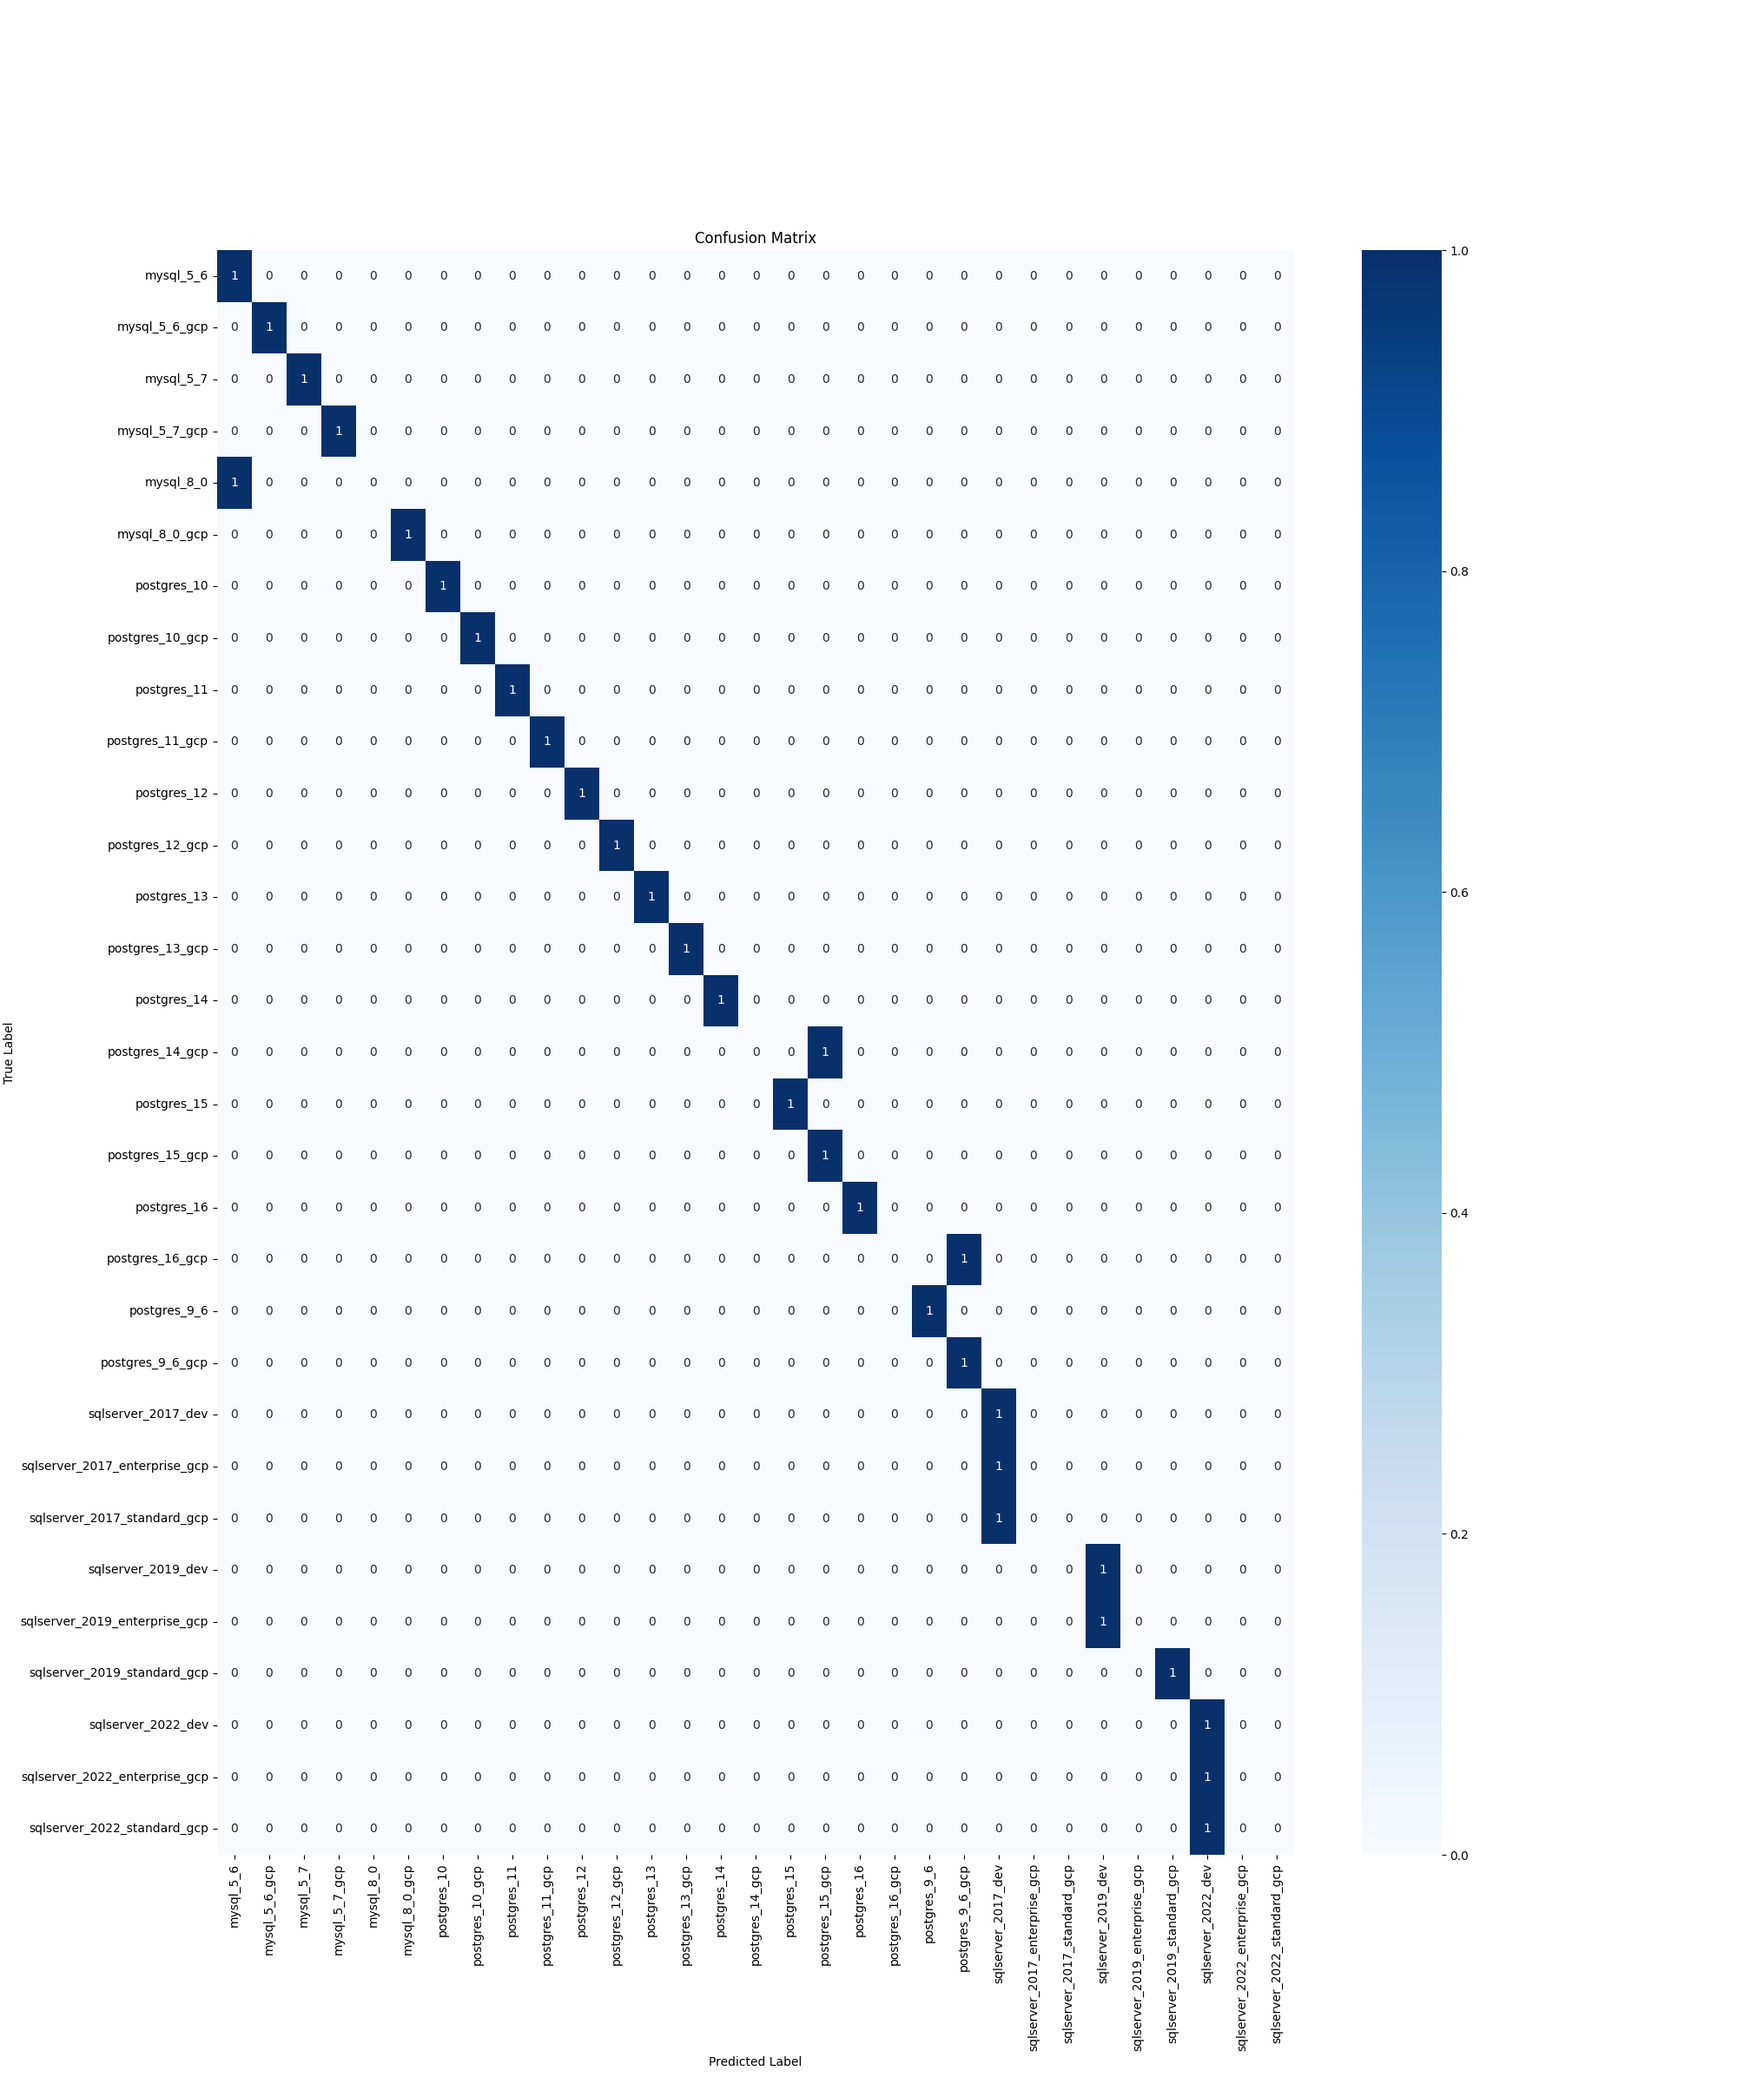
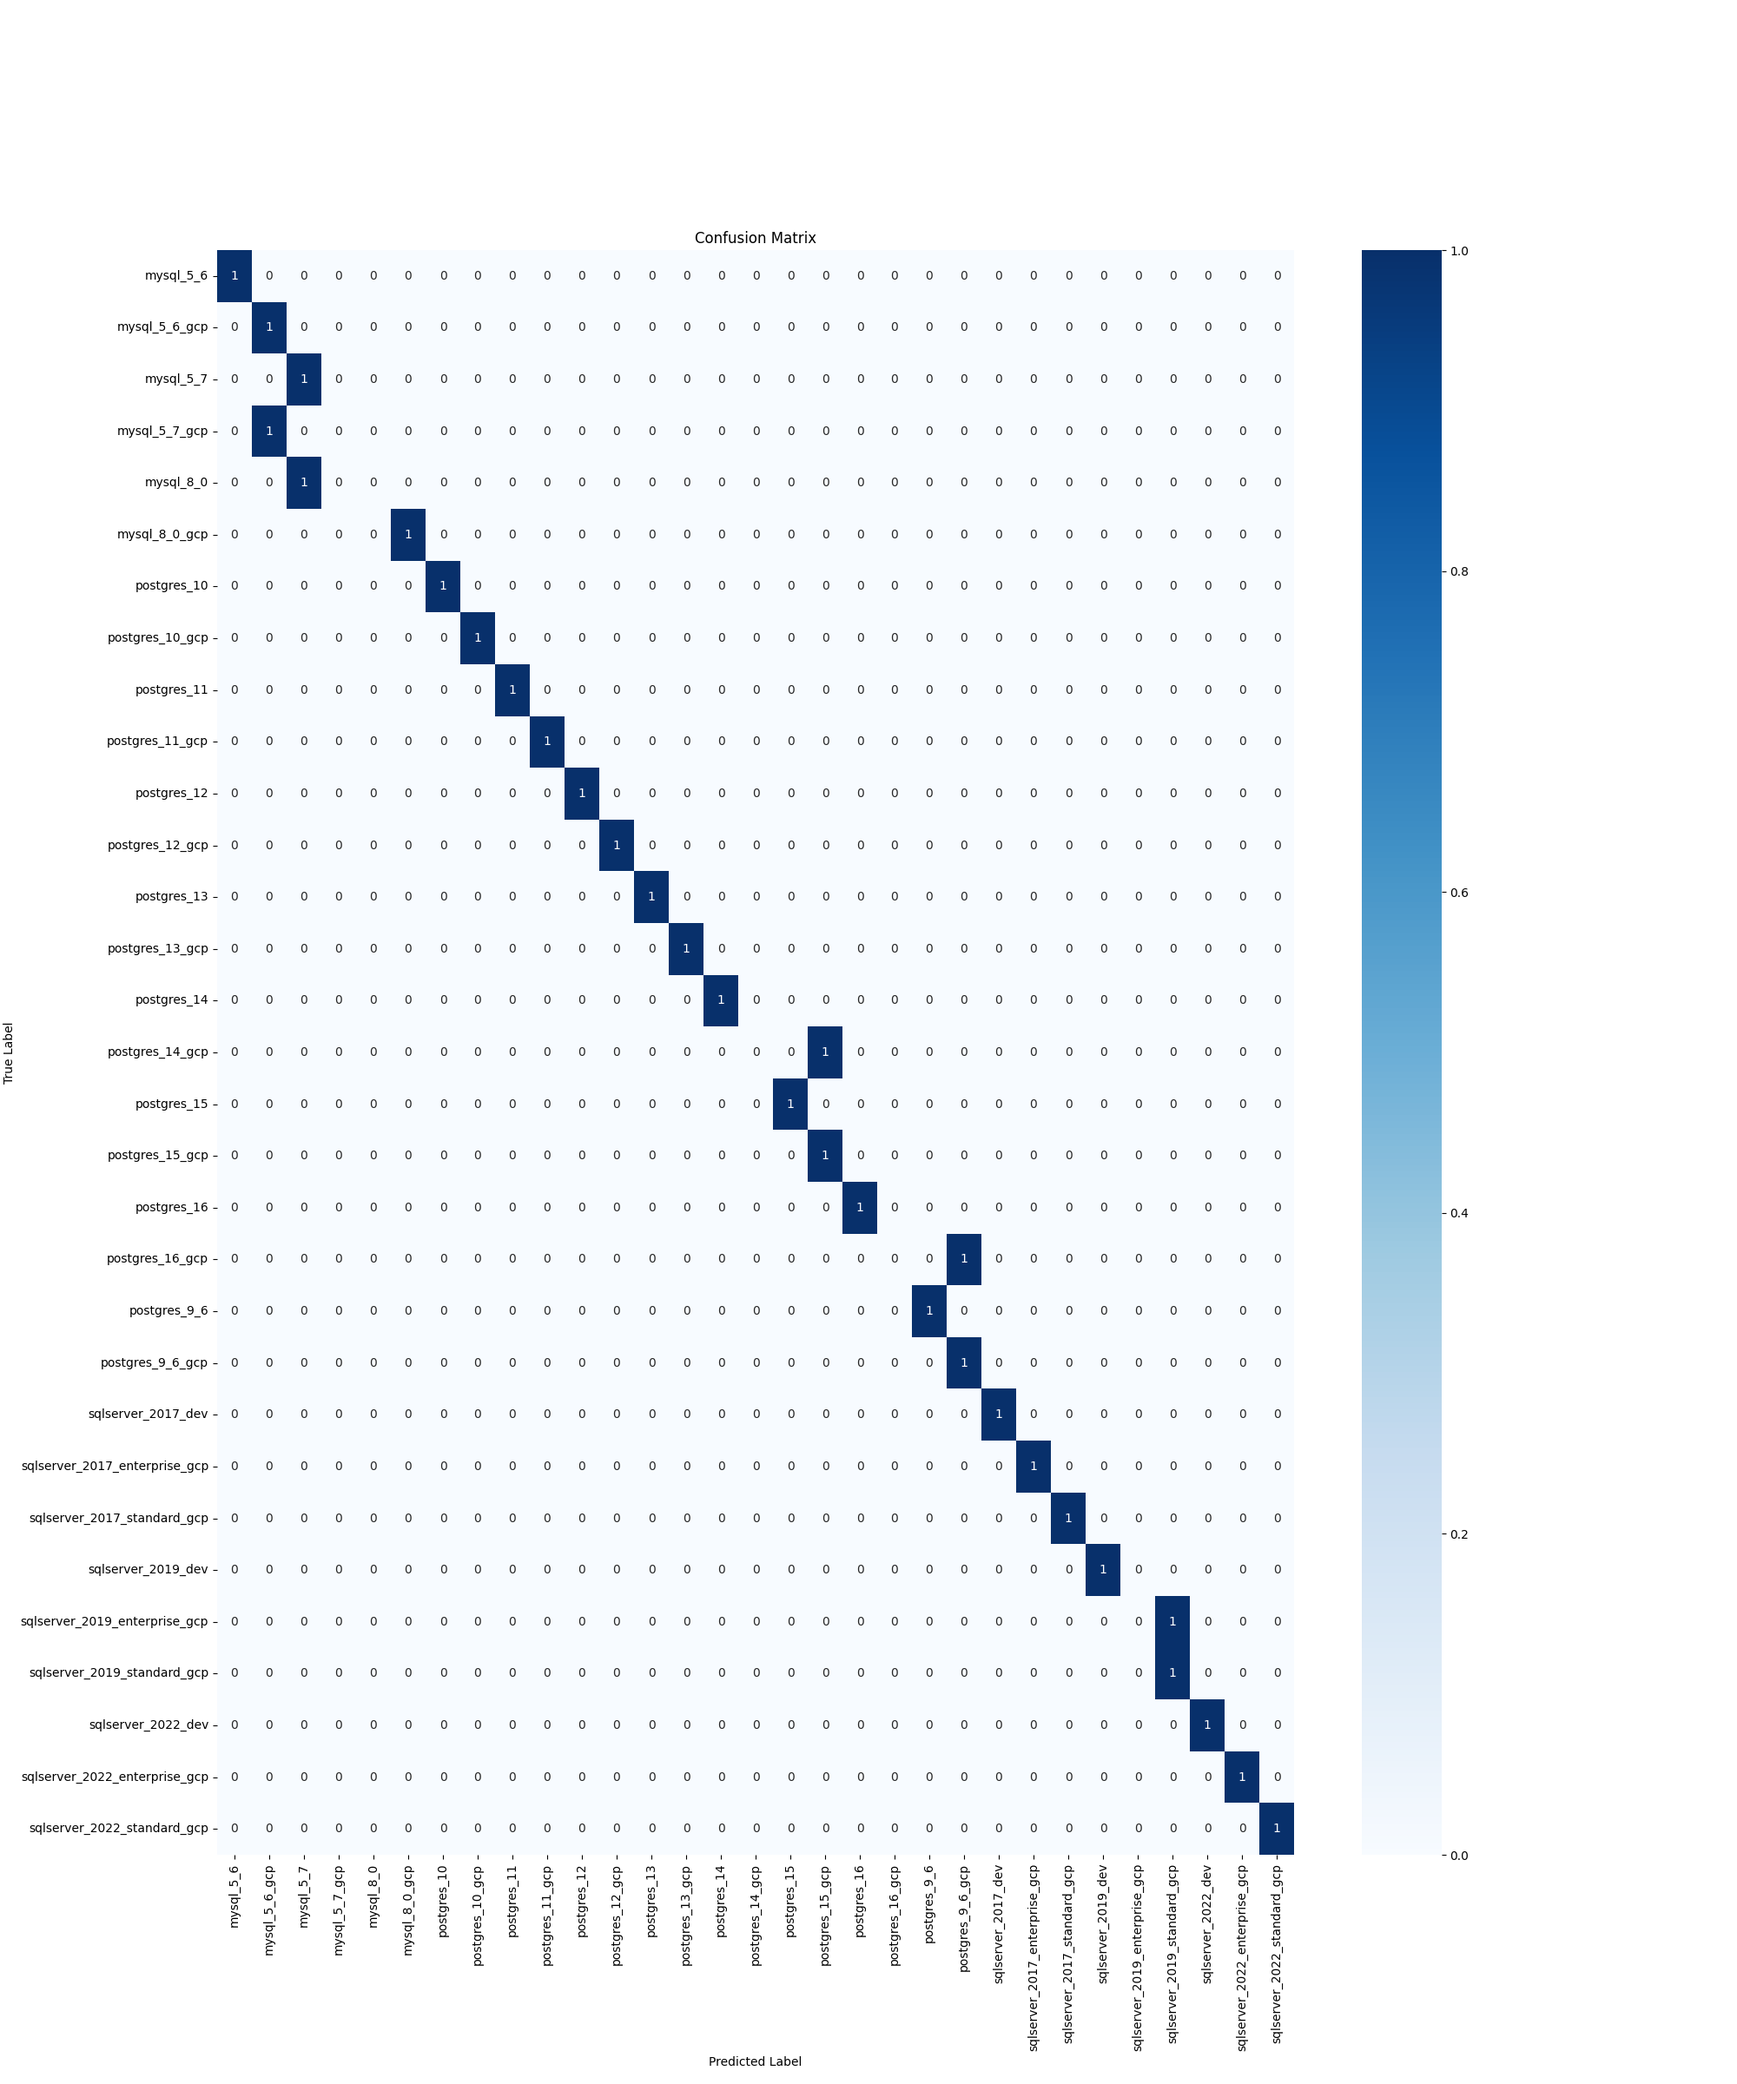
classify bounded by MAX_FEATURES

Changed region(s): [[0.558, 0.6875, 0.682, 0.8125], [0.124, 0.1875, 0.217, 0.25], [0.682, 0.8438, 0.744, 0.9062]]

diff --git a/packets/classifier.py b/packets/classifier.py
@@ -40,21 +40,23 @@ def load_byte_data(directory):
     return data, labels
 
 
+MAX_FEATURES = 1000
+
 if __name__ == "__main__":
     print("Hello!")
 
-    train_dir = "/Users/raresraf/code/project-martial/dataset/packets/train"
+    train_dir = "/Users/raresfolea/code/project-martial/dataset/packets/train"
     train_data, train_labels = load_byte_data(train_dir)
 
-    test_dir = "/Users/raresraf/code/project-martial/dataset/packets/test"
+    test_dir = "/Users/raresfolea/code/project-martial/dataset/packets/test"
     test_data, test_labels = load_byte_data(test_dir)
 
     def byte_ngram_tokenizer(byte_sequence):
-        ngrams = [byte_sequence[i:i + 2] for i in range(len(byte_sequence) - 2)]
+        ngrams = [byte_sequence[i:i + 3] for i in range(len(byte_sequence) - 3)]
         return ngrams
 
     # TF-IDF Vectorization
-    vectorizer = TfidfVectorizer(tokenizer=byte_ngram_tokenizer, encoding='cp437')
+    vectorizer = TfidfVectorizer(tokenizer=byte_ngram_tokenizer, encoding='cp437', max_features=MAX_FEATURES)
     X_train = vectorizer.fit_transform(train_data)
     X_test = vectorizer.transform(test_data)
 
@@ -76,8 +78,8 @@ if __name__ == "__main__":
     plt.xlabel('Predicted Label')
     plt.ylabel('True Label')
     plt.title('Confusion Matrix')
-    plt.savefig('myfig.png')
-    plt.show()
+    plt.savefig('confusion.png')
+    # plt.show()
 
 
 
@@ -144,7 +146,8 @@ if __name__ == "__main__":
         combined_legend_elements = legend_elements + plt.gca().get_legend_handles_labels()[0]
         plt.legend(handles=combined_legend_elements, title="Classes / Errors")
         plt.grid(True, linestyle='--', alpha=0.5)
-        plt.show()
+        plt.savefig('pca.png')
+        # plt.show()
     else:
         print("No misclassifications found on the test set!")
 
@@ -152,10 +155,10 @@ if __name__ == "__main__":
 Classification Report:
                                 precision    recall  f1-score   support
 
-                    mysql_5_6       0.50      1.00      0.67         1
-                mysql_5_6_gcp       1.00      1.00      1.00         1
-                    mysql_5_7       1.00      1.00      1.00         1
-                mysql_5_7_gcp       1.00      1.00      1.00         1
+                    mysql_5_6       1.00      1.00      1.00         1
+                mysql_5_6_gcp       0.50      1.00      0.67         1
+                    mysql_5_7       0.50      1.00      0.67         1
+                mysql_5_7_gcp       0.00      0.00      0.00         1
                     mysql_8_0       0.00      0.00      0.00         1
                 mysql_8_0_gcp       1.00      1.00      1.00         1
                   postgres_10       1.00      1.00      1.00         1
@@ -174,17 +177,17 @@ Classification Report:
               postgres_16_gcp       0.00      0.00      0.00         1
                  postgres_9_6       1.00      1.00      1.00         1
              postgres_9_6_gcp       0.50      1.00      0.67         1
-           sqlserver_2017_dev       0.33      1.00      0.50         1
-sqlserver_2017_enterprise_gcp       0.00      0.00      0.00         1
-  sqlserver_2017_standard_gcp       0.00      0.00      0.00         1
-           sqlserver_2019_dev       0.50      1.00      0.67         1
+           sqlserver_2017_dev       1.00      1.00      1.00         1
+sqlserver_2017_enterprise_gcp       1.00      1.00      1.00         1
+  sqlserver_2017_standard_gcp       1.00      1.00      1.00         1
+           sqlserver_2019_dev       1.00      1.00      1.00         1
 sqlserver_2019_enterprise_gcp       0.00      0.00      0.00         1
-  sqlserver_2019_standard_gcp       1.00      1.00      1.00         1
-           sqlserver_2022_dev       0.33      1.00      0.50         1
-sqlserver_2022_enterprise_gcp       0.00      0.00      0.00         1
-  sqlserver_2022_standard_gcp       0.00      0.00      0.00         1
+  sqlserver_2019_standard_gcp       0.50      1.00      0.67         1
+           sqlserver_2022_dev       1.00      1.00      1.00         1
+sqlserver_2022_enterprise_gcp       1.00      1.00      1.00         1
+  sqlserver_2022_standard_gcp       1.00      1.00      1.00         1
 
-                     accuracy                           0.74        31
-                    macro avg       0.63      0.74      0.67        31
-                 weighted avg       0.63      0.74      0.67        31
+                     accuracy                           0.84        31
+                    macro avg       0.76      0.84      0.78        31
+                 weighted avg       0.76      0.84      0.78        31
 """
